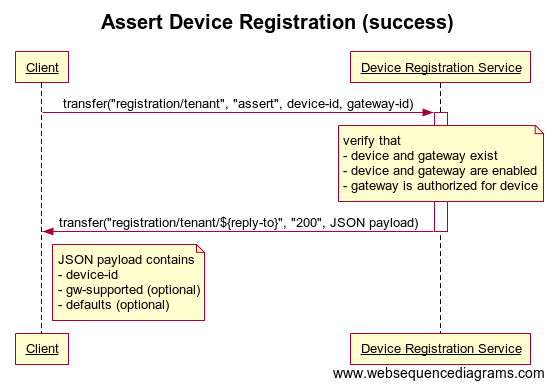
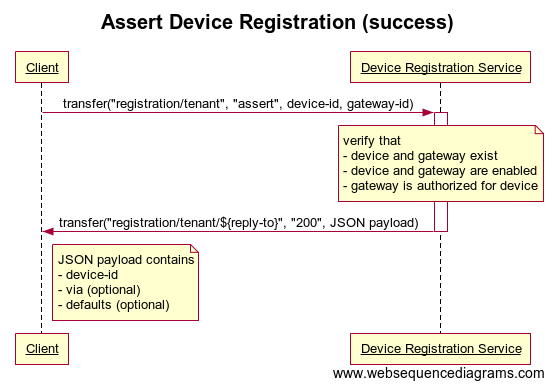
[#1245] Replace 'gw-supported with 'via' in assertRegistration response.

Changed region(s): [[0.123, 0.6186, 0.3689, 0.8351]]

diff --git a/service-base/src/main/java/org/eclipse/hono/service/registration/BaseRegistrationService.java b/service-base/src/main/java/org/eclipse/hono/service/registration/BaseRegistrationService.java
@@ -13,6 +13,7 @@
 package org.eclipse.hono.service.registration;
 
 import java.net.HttpURLConnection;
+import java.util.Collections;
 import java.util.Objects;
 
 import org.eclipse.hono.client.ClientErrorException;
@@ -302,7 +303,7 @@ public abstract class BaseRegistrationService<T> extends EventBusService<T> impl
 
     /**
      * Checks if a gateway may act on behalf of the given device. This is determined by checking whether
-     * the 'via' property of the device registration data has one or more entries.
+     * the {@link RegistrationConstants#FIELD_VIA} property of the device registration data has one or more entries.
      * <p>
      * Subclasses may override this method to provide a different means to determine gateway support.
      *
@@ -316,6 +317,28 @@ public abstract class BaseRegistrationService<T> extends EventBusService<T> impl
         final Object viaObj = registrationInfo.getValue(RegistrationConstants.FIELD_VIA);
         return (viaObj instanceof String && !((String) viaObj).isEmpty())
                 || (viaObj instanceof JsonArray && !((JsonArray) viaObj).isEmpty());
+    }
+
+    /**
+     * Gets the list of gateways that may act on behalf of the given device.
+     * <p>
+     * This default implementation gets the list of gateways from the value of the
+     * {@link RegistrationConstants#FIELD_VIA} property in the device's registration information.
+     * <p>
+     * Subclasses may override this method to provide a different means to determine the supported gateways.
+     *
+     * @param tenantId The tenant id.
+     * @param deviceId The device id.
+     * @param registrationInfo The device's registration information.
+     * @return The list of gateways as a JSON array of Strings (never {@code null}).
+     */
+    protected JsonArray getSupportedGatewaysForDevice(final String tenantId, final String deviceId,
+            final JsonObject registrationInfo) {
+        Object viaObj = registrationInfo.getValue(RegistrationConstants.FIELD_VIA);
+        if (viaObj instanceof String) {
+            viaObj = new JsonArray().add(viaObj);
+        }
+        return viaObj instanceof JsonArray ? (JsonArray) viaObj : new JsonArray(Collections.emptyList());
     }
 
     /**
@@ -434,8 +457,8 @@ public abstract class BaseRegistrationService<T> extends EventBusService<T> impl
     /**
      * Creates the payload of the assert Registration response message.
      * <p>
-     * The returned JSON object contains the <em>gw-supported</em> property, having a {@code true} value if a gateway
-     * may act on behalf of the device, and may also contain <em>default</em> values registered for the device under key
+     * The returned JSON object may contain the {@link RegistrationConstants#FIELD_VIA} property of the device's
+     * registration information and may also contain <em>default</em> values registered for the device under key
      * {@link RegistrationConstants#FIELD_PAYLOAD_DEFAULTS}.
      * 
      * @param tenantId The tenant the device belongs to.
@@ -447,7 +470,10 @@ public abstract class BaseRegistrationService<T> extends EventBusService<T> impl
 
         final JsonObject result = new JsonObject()
                 .put(RegistrationConstants.FIELD_PAYLOAD_DEVICE_ID, deviceId);
-        result.put(RegistrationConstants.FIELD_PAYLOAD_GATEWAY_SUPPORTED, isGatewaySupportedForDevice(tenantId, deviceId, registrationInfo));
+        final JsonArray viaObj = getSupportedGatewaysForDevice(tenantId, deviceId, registrationInfo);
+        if (!viaObj.isEmpty()) {
+            result.put(RegistrationConstants.FIELD_VIA, viaObj);
+        }
         final JsonObject defaults = registrationInfo.getJsonObject(RegistrationConstants.FIELD_PAYLOAD_DEFAULTS);
         if (defaults != null) {
             result.put(RegistrationConstants.FIELD_PAYLOAD_DEFAULTS, defaults);

diff --git a/core/src/main/java/org/eclipse/hono/util/RegistrationConstants.java b/core/src/main/java/org/eclipse/hono/util/RegistrationConstants.java
@@ -64,12 +64,6 @@ public final class RegistrationConstants extends RequestResponseApiConstants {
     public static final String FIELD_LAST_VIA_UPDATE_DATE = "update-date";
 
     /**
-     * The name of the field in a response payload that contains the boolean value
-     * defining whether one or more gateways may act on behalf of the device.
-     */
-    public static final String FIELD_PAYLOAD_GATEWAY_SUPPORTED = "gw-supported";
-
-    /**
      * The name of the Device Registration API endpoint.
      */
     public static final String REGISTRATION_ENDPOINT = "registration";

diff --git a/site/content/api/Device-Registration-API.md b/site/content/api/Device-Registration-API.md
@@ -61,14 +61,14 @@ The body of the response message consists of a single *Data* section containing 
 | Name             | Mandatory | JSON Type     | Description |
 | :--------------- | :-------: | :------------ | :---------- |
 | *device-id*      | *yes*     | *string*      | The ID of the device that is subject of the assertion. |
-| *gw-supported*   | *no*      | *boolean*     | If set to `true`, the device allows one or more gateways to act on its behalf. These gateways are configured in the device registration data by means of the `via` property. |
+| *via*            | *no*      | *array*       | Information about which gateways may act on behalf of the device. The property may contain a JSON array containing the gateway ids as strings. |
 | *defaults*       | *no*      | *object*      | Default values to be used by protocol adapters for augmenting messages from devices with missing information like a *content type*. It is up to the discretion of a protocol adapter if and how to use the given default values when processing messages published by the device. |
 
 Below is an example for a payload of a response to an *assert* request for device `4711` which also includes a default *content-type*:
 ~~~json
 {
   "device-id" : "4711",
-  "gw-supported": true,
+  "via": ["4712"],
   "defaults": {
     "content-type": "application/vnd.acme+json"
   }

diff --git a/site/content/release-notes.md b/site/content/release-notes.md
@@ -14,6 +14,13 @@ title = "Release Notes"
 
 * The Hono Sandbox's protocol adapters support using the gateway mode again.
 
+### API Changes
+
+* The response message format of the *assert Device Registration* operation of the Device Registration API
+  has been changed, replacing the optional `gw-supported` boolean field with an optional `via` field.
+  The value of this field contains the list of gateway that may act on behalf of the device on which
+  the operation is invoked.
+
 ## 1.0-M4
 
 ### New Features
